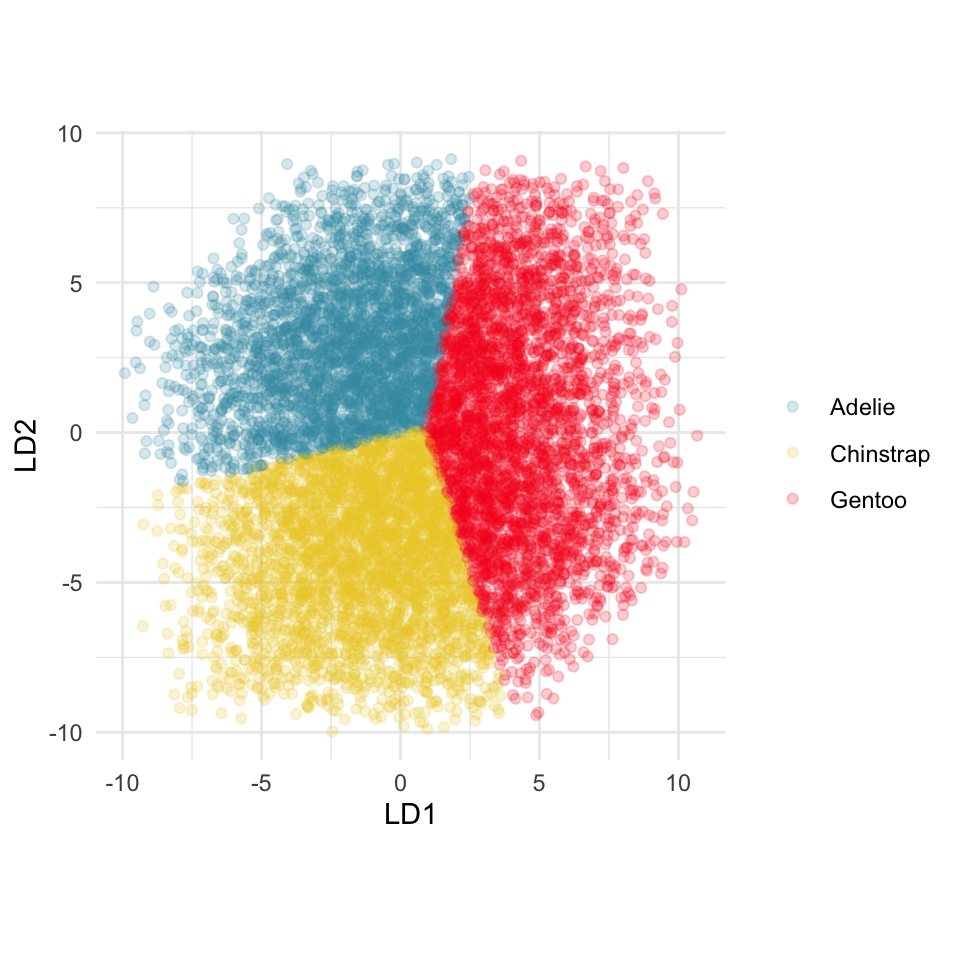
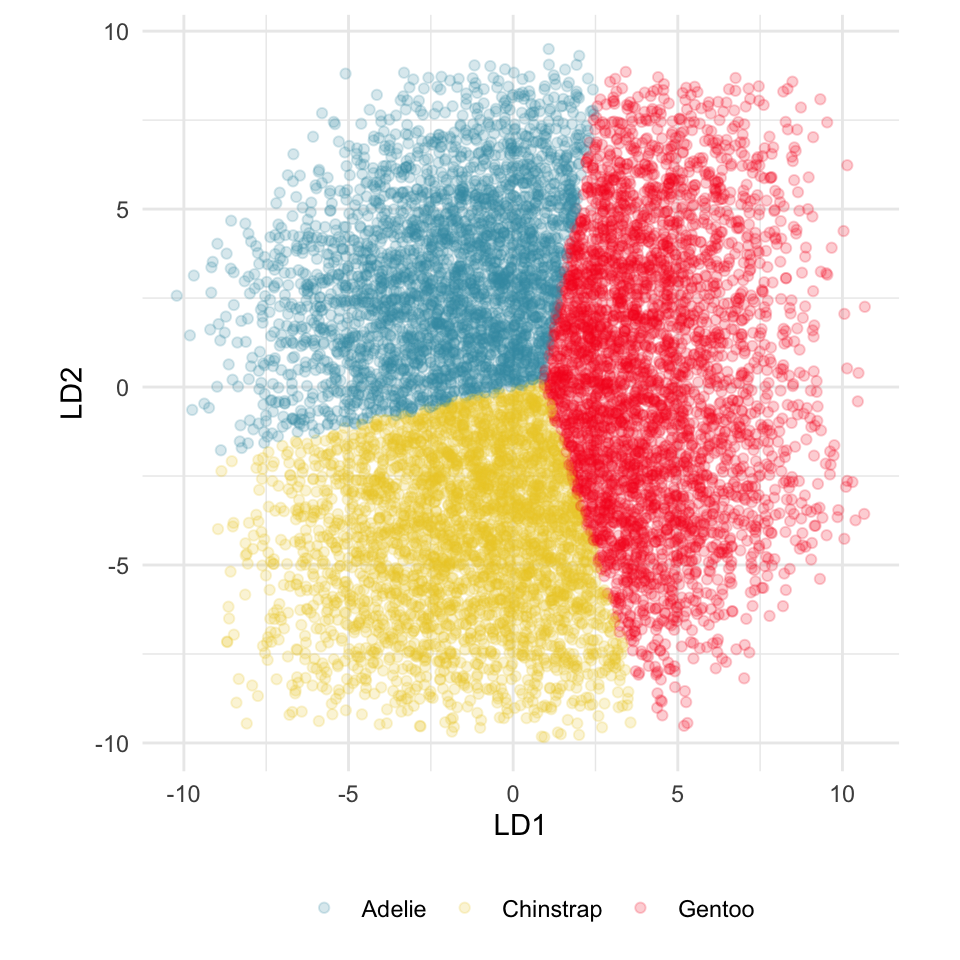
small things LDA

diff --git a/docs/LDA.html b/docs/LDA.html
@@ -768,15 +768,16 @@ bm 0.18 0.20 0.16 0.31</code></pre>
 <details>
 <summary>Code</summary>
 <div class="sourceCode cell-code" id="cb19"><pre class="sourceCode r code-with-copy"><code class="sourceCode r"><span id="cb19-1"><a href="#cb19-1" aria-hidden="true" tabindex="-1"></a><span class="co"># Code to run the tour</span></span>
-<span id="cb19-2"><a href="#cb19-2" aria-hidden="true" tabindex="-1"></a><span class="fu">animate_slice</span>(p_lda_boundaries[p_lda_boundaries<span class="sc">$</span>.TYPE <span class="sc">==</span> <span class="st">"simulated"</span>,<span class="dv">1</span><span class="sc">:</span><span class="dv">4</span>], <span class="at">col=</span>p_lda_boundaries[p_lda_boundaries<span class="sc">$</span>.TYPE <span class="sc">==</span> <span class="st">"simulated"</span>,<span class="dv">6</span>], <span class="at">v_rel=</span><span class="fl">0.02</span>, <span class="at">axes=</span><span class="st">"bottomleft"</span>)</span>
-<span id="cb19-3"><a href="#cb19-3" aria-hidden="true" tabindex="-1"></a><span class="fu">render_gif</span>(p_lda_boundaries[p_lda_boundaries<span class="sc">$</span>.TYPE <span class="sc">==</span> <span class="st">"simulated"</span>,<span class="dv">1</span><span class="sc">:</span><span class="dv">4</span>],</span>
-<span id="cb19-4"><a href="#cb19-4" aria-hidden="true" tabindex="-1"></a>           <span class="fu">planned_tour</span>(pt1),</span>
-<span id="cb19-5"><a href="#cb19-5" aria-hidden="true" tabindex="-1"></a>           <span class="fu">display_slice</span>(<span class="at">v_rel=</span><span class="fl">0.02</span>, </span>
-<span id="cb19-6"><a href="#cb19-6" aria-hidden="true" tabindex="-1"></a>             <span class="at">col=</span>p_lda_boundaries[ p_lda_boundaries<span class="sc">$</span>.TYPE <span class="sc">==</span> <span class="st">"simulated"</span>,<span class="dv">6</span>], </span>
-<span id="cb19-7"><a href="#cb19-7" aria-hidden="true" tabindex="-1"></a>             <span class="at">axes=</span><span class="st">"bottomleft"</span>),                     <span class="at">gif_file=</span><span class="st">"gifs/penguins_lda_boundaries.gif"</span>,</span>
-<span id="cb19-8"><a href="#cb19-8" aria-hidden="true" tabindex="-1"></a>           <span class="at">frames=</span><span class="dv">500</span>,</span>
-<span id="cb19-9"><a href="#cb19-9" aria-hidden="true" tabindex="-1"></a>           <span class="at">loop=</span><span class="cn">FALSE</span></span>
-<span id="cb19-10"><a href="#cb19-10" aria-hidden="true" tabindex="-1"></a>           )</span></code><button title="Copy to Clipboard" class="code-copy-button"><i class="bi"></i></button></pre></div>
+<span id="cb19-2"><a href="#cb19-2" aria-hidden="true" tabindex="-1"></a>p_lda_boundaries<span class="sc">$</span>species</span>
+<span id="cb19-3"><a href="#cb19-3" aria-hidden="true" tabindex="-1"></a><span class="fu">animate_slice</span>(p_lda_boundaries[p_lda_boundaries<span class="sc">$</span>.TYPE <span class="sc">==</span> <span class="st">"simulated"</span>,<span class="dv">1</span><span class="sc">:</span><span class="dv">4</span>], <span class="at">col=</span>p_lda_boundaries<span class="sc">$</span>species[p_lda_boundaries<span class="sc">$</span>.TYPE <span class="sc">==</span> <span class="st">"simulated"</span>], <span class="at">v_rel=</span><span class="fl">0.02</span>, <span class="at">axes=</span><span class="st">"bottomleft"</span>)</span>
+<span id="cb19-4"><a href="#cb19-4" aria-hidden="true" tabindex="-1"></a><span class="fu">render_gif</span>(p_lda_boundaries[p_lda_boundaries<span class="sc">$</span>.TYPE <span class="sc">==</span> <span class="st">"simulated"</span>,<span class="dv">1</span><span class="sc">:</span><span class="dv">4</span>],</span>
+<span id="cb19-5"><a href="#cb19-5" aria-hidden="true" tabindex="-1"></a>           <span class="fu">planned_tour</span>(pt1),</span>
+<span id="cb19-6"><a href="#cb19-6" aria-hidden="true" tabindex="-1"></a>           <span class="fu">display_slice</span>(<span class="at">v_rel=</span><span class="fl">0.02</span>, </span>
+<span id="cb19-7"><a href="#cb19-7" aria-hidden="true" tabindex="-1"></a>             <span class="at">col=</span>p_lda_boundaries<span class="sc">$</span>species[p_lda_boundaries<span class="sc">$</span>.TYPE <span class="sc">==</span> <span class="st">"simulated"</span>], </span>
+<span id="cb19-8"><a href="#cb19-8" aria-hidden="true" tabindex="-1"></a>             <span class="at">axes=</span><span class="st">"bottomleft"</span>),                     <span class="at">gif_file=</span><span class="st">"gifs/penguins_lda_boundaries.gif"</span>,</span>
+<span id="cb19-9"><a href="#cb19-9" aria-hidden="true" tabindex="-1"></a>           <span class="at">frames=</span><span class="dv">500</span>,</span>
+<span id="cb19-10"><a href="#cb19-10" aria-hidden="true" tabindex="-1"></a>           <span class="at">loop=</span><span class="cn">FALSE</span></span>
+<span id="cb19-11"><a href="#cb19-11" aria-hidden="true" tabindex="-1"></a>           )</span></code><button title="Copy to Clipboard" class="code-copy-button"><i class="bi"></i></button></pre></div>
 </details>
 </div>
 <div class="cell">
@@ -793,7 +794,9 @@ bm 0.18 0.20 0.16 0.31</code></pre>
 <span id="cb20-11"><a href="#cb20-11" aria-hidden="true" tabindex="-1"></a>  <span class="fu">geom_point</span>(<span class="at">alpha=</span><span class="fl">0.2</span>) <span class="sc">+</span>  </span>
 <span id="cb20-12"><a href="#cb20-12" aria-hidden="true" tabindex="-1"></a>  <span class="fu">scale_color_discrete_divergingx</span>(<span class="st">"Zissou 1"</span>) <span class="sc">+</span></span>
 <span id="cb20-13"><a href="#cb20-13" aria-hidden="true" tabindex="-1"></a>  <span class="fu">theme_minimal</span>() <span class="sc">+</span></span>
-<span id="cb20-14"><a href="#cb20-14" aria-hidden="true" tabindex="-1"></a>  <span class="fu">theme</span>(<span class="at">aspect.ratio =</span> <span class="dv">1</span>, <span class="at">legend.title =</span> <span class="fu">element_blank</span>()) </span></code><button title="Copy to Clipboard" class="code-copy-button"><i class="bi"></i></button></pre></div>
+<span id="cb20-14"><a href="#cb20-14" aria-hidden="true" tabindex="-1"></a>  <span class="fu">theme</span>(<span class="at">aspect.ratio =</span> <span class="dv">1</span>, </span>
+<span id="cb20-15"><a href="#cb20-15" aria-hidden="true" tabindex="-1"></a>        <span class="at">legend.position =</span> <span class="st">"bottom"</span>,</span>
+<span id="cb20-16"><a href="#cb20-16" aria-hidden="true" tabindex="-1"></a>        <span class="at">legend.title =</span> <span class="fu">element_blank</span>()) </span></code><button title="Copy to Clipboard" class="code-copy-button"><i class="bi"></i></button></pre></div>
 </div>
 <div id="fig-penguins-lda-boundaries" class="quarto-layout-panel">
 <figure class="figure">
